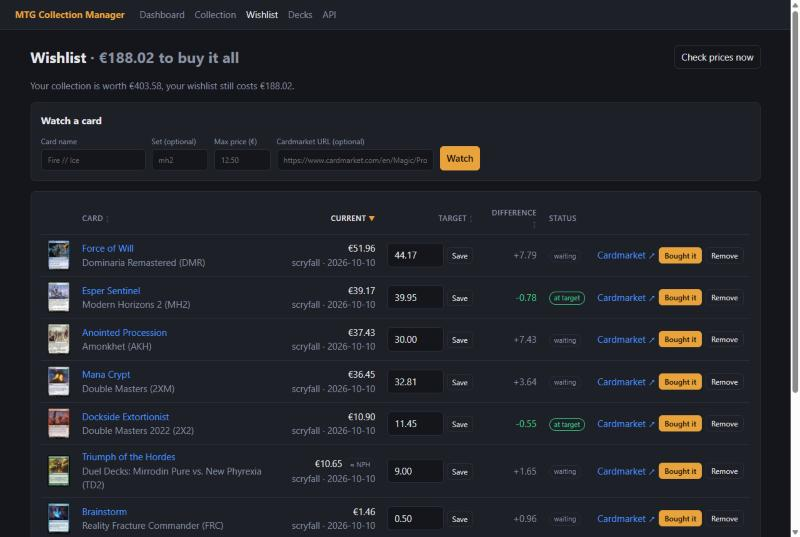
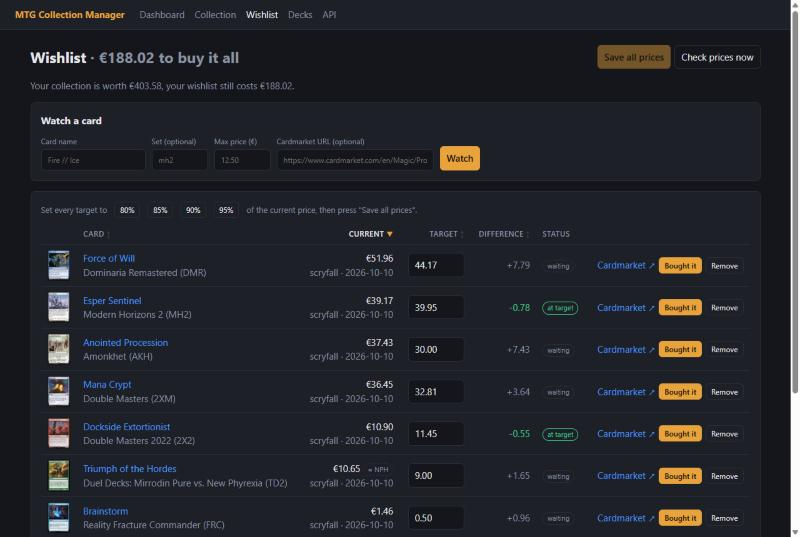
Wishlist: save all target prices at once, set them by percentage
- Target prices are edited freely and stored with one "Save all prices"
  button instead of a Save button per row. Changed prices are
  highlighted and a bar offers to save or discard. All of them are
  stored or, when one is invalid, none (PUT /api/wishlist/targets).
- Buttons fill every target with 80, 85, 90 or 95% of the card's current
  price; nothing is stored until the save button is pressed.

Update the wishlist screenshots in the README.

diff --git a/app/templates/wishlist.html b/app/templates/wishlist.html
@@ -4,7 +4,12 @@
 {% block content %}
 <div class="toolbar">
   <h1>Wishlist <span class="muted">· {{ total | eur }} to buy it all</span></h1>
-  <form method="post" action="/jobs/check-wishlist"><button class="secondary">Check prices now</button></form>
+  <div class="actions">
+    {# Every target price field belongs to this one form, so a single button saves them all. #}
+    <form id="wishlist-form" class="inline" method="post" action="/wishlist/targets" data-keep-scroll></form>
+    <button form="wishlist-form" class="wishlist-save">Save all prices</button>
+    <form class="inline" method="post" action="/jobs/check-wishlist"><button class="secondary">Check prices now</button></form>
+  </div>
 </div>
 
 <p class="muted">Your collection is worth {{ collection_value | eur }}, your wishlist still costs {{ total | eur }}.</p>
@@ -22,6 +27,13 @@
 
 <div class="panel table-wrap">
   {% if rows %}
+  <div class="toolbar search-bar bulk-targets">
+    <span class="muted">Set every target to</span>
+    {% for pct in (80, 85, 90, 95) %}
+    <button type="button" class="secondary small" data-target-pct="{{ pct }}" title="Fill in {{ pct }}% of each card's current price as its target">{{ pct }}%</button>
+    {% endfor %}
+    <span class="muted">of the current price, then press "Save all prices".</span>
+  </div>
   <table id="wishlist-table">
     <thead>
     <tr>
@@ -47,10 +59,8 @@
         {% if row.price_source %}<div class="muted">{{ row.price_source }} · {{ row.price_date }}</div>{% endif %}
       </td>
       <td class="num">
-        <form class="inline" method="post" action="/wishlist/{{ row.entry.id }}/target">
-          <input name="target_price" class="narrow" value="{{ '%.2f' | format(row.entry.target_price) }}" inputmode="decimal">
-          <button class="secondary small">Save</button>
-        </form>
+        <input name="target:{{ row.entry.id }}" form="wishlist-form" class="narrow" inputmode="decimal"
+               value="{{ '%.2f' | format(row.entry.target_price) }}" aria-label="Target price for {{ row.card.name }}">
       </td>
       <td class="num {{ 'up' if row.below_target else 'muted' }}">
         {% if row.difference is not none %}{{ '%+.2f' | format(row.difference) }}{% else %}–{% endif %}
@@ -101,6 +111,48 @@
 {% endblock %}
 
 {% block scripts %}
+<div id="unsaved-bar" class="unsaved-bar" hidden>
+  <span id="unsaved-text">You have unsaved target prices.</span>
+  <a href="/wishlist">Discard</a>
+  <button form="wishlist-form">Save all prices</button>
+</div>
+<script>
+  // One save for every target price: the button lights up as soon as a price differs from what is stored.
+  const targetFields = [...document.querySelectorAll('input[form="wishlist-form"]')];
+  const targetButtons = document.querySelectorAll('button[form="wishlist-form"]');
+  const targetBar = document.getElementById("unsaved-bar");
+
+  function markTargets() {
+    let changed = 0;
+    for (const field of targetFields) {
+      // defaultValue is what the server sent; "12,5" and "12.50" are the same price.
+      const typed = Number(field.value.trim().replace(",", "."));
+      const dirty = field.value.trim() === "" || Number.isNaN(typed) || typed !== Number(field.defaultValue);
+      field.classList.toggle("changed", dirty);
+      if (dirty) changed += 1;
+    }
+    for (const button of targetButtons) button.disabled = changed === 0;
+    targetBar.hidden = changed === 0;
+    document.getElementById("unsaved-text").textContent =
+      changed === 1 ? "1 target price is not saved yet." : `${changed} target prices are not saved yet.`;
+  }
+
+  for (const field of targetFields) field.addEventListener("input", markTargets);
+  markTargets();
+
+  // "80%" etc.: fill in that share of the current price for every card. Nothing is saved until you press save.
+  for (const button of document.querySelectorAll("button[data-target-pct]")) {
+    button.addEventListener("click", () => {
+      const share = Number(button.dataset.targetPct) / 100;
+      for (const field of targetFields) {
+        const current = field.closest("tr").dataset.current;
+        if (current === "") continue;  // no price known: leave the target as it is
+        field.value = (Math.round(Number(current) * share * 100) / 100).toFixed(2);
+      }
+      markTargets();
+    });
+  }
+</script>
 <script>
   // Click a column header to sort; click again to reverse. The choice is remembered in this browser.
   const wishlistTable = document.getElementById("wishlist-table");

diff --git a/app/static/style.css b/app/static/style.css
@@ -165,3 +165,5 @@ th[aria-sort] button.sort { color: var(--text); }
 /* Keep prices, badges and row buttons on one line; long card and set names wrap instead. */
 td.num, .badge { white-space: nowrap; }
 .actions { flex-wrap: nowrap; white-space: nowrap; align-items: center; }
+
+.bulk-targets { margin-bottom: 8px; font-size: 13px; }

diff --git a/tests/test_api.py b/tests/test_api.py
@@ -213,3 +213,39 @@ def test_wishlist_table_is_sortable(client):
     assert 'data-name="Lim-Dûl&#39;s Vault" data-current="12.34"' in page
     assert 'data-target="10.0" data-difference="2.34"' in page
     assert 'data-name="Black Lotus" data-current=""' in page  # sorts last, whatever the direction
+
+
+def test_save_all_target_prices_at_once(client):
+    vault = client.post("/api/wishlist", json={"name": "Lim-Dûl's Vault", "target_price": 10}).json()
+    sol = client.post("/api/wishlist", json={"name": "Sol Ring", "target_price": 1}).json()
+    fire = client.post("/api/wishlist", json={"name": "Fire // Ice", "target_price": 0.2}).json()
+
+    page = client.get("/wishlist").text
+    assert 'id="wishlist-form"' in page and "Save all prices" in page
+    assert f'name="target:{vault["id"]}" form="wishlist-form"' in page
+    assert page.count(">Save</button>") == 0  # no more saving row by row
+    for pct in (80, 85, 90, 95):  # fill every target with a share of the current price
+        assert f'data-target-pct="{pct}"' in page
+
+    def targets():
+        return {i["card"]["name"]: i["target_price"] for i in client.get("/api/wishlist").json()["items"]}
+
+    # Three fields are submitted, two of them changed (one with a comma).
+    saved = client.post("/wishlist/targets", data={
+        f"target:{vault['id']}": "8,50", f"target:{sol['id']}": "1.00", f"target:{fire['id']}": "0.10",
+    })
+    assert "Saved 2 target prices" in saved.text
+    assert targets() == {"Lim-Dûl's Vault": 8.5, "Sol Ring": 1.0, "Fire // Ice": 0.1}
+    assert "No target prices were changed" in client.post("/wishlist/targets", data={f"target:{sol['id']}": "1"}).text
+    assert "Saved 1 target price<" in client.post("/wishlist/targets", data={f"target:{sol['id']}": "2"}).text
+
+    # One bad value and nothing is stored, not even the valid ones next to it.
+    failed = client.post("/wishlist/targets", data={f"target:{vault['id']}": "5", f"target:{sol['id']}": "cheap"})
+    assert "Nothing was saved" in failed.text
+    assert "Nothing was saved" in client.post("/wishlist/targets", data={f"target:{vault['id']}": "5", "target:9999": "1"}).text
+    assert targets() == {"Lim-Dûl's Vault": 8.5, "Sol Ring": 2.0, "Fire // Ice": 0.1}
+
+    api = client.put("/api/wishlist/targets", json={str(vault["id"]): 7, str(fire["id"]): 0.3})
+    assert api.status_code == 200 and targets() == {"Lim-Dûl's Vault": 7.0, "Sol Ring": 2.0, "Fire // Ice": 0.3}
+    assert client.put("/api/wishlist/targets", json={str(vault["id"]): -1}).status_code == 400
+    assert client.put("/api/wishlist/targets", json={"9999": 1}).status_code == 400

diff --git a/app/routers/pages.py b/app/routers/pages.py
@@ -200,6 +200,28 @@ def _active_entry(session: Session, entry_id: int) -> WishlistEntry | None:
     return entry if entry is not None and entry.active else None
 
 
+@router.post("/wishlist/targets")
+async def wishlist_targets(request: Request, session: Session = Depends(get_session)):
+    """The "Save all prices" button: every target price on the page in one go."""
+    targets: dict[int, float] = {}
+    for key, value in (await request.form()).items():
+        if not key.startswith("target:"):
+            continue
+        price = parse_money(str(value))
+        if price is None or not key.removeprefix("target:").isdigit():
+            return redirect("/wishlist", f"Nothing was saved: '{value}' is not a valid price", error=True)
+        targets[int(key.removeprefix("target:"))] = price
+    try:
+        changed = wishlist.set_targets(session, targets)
+    except ValueError as exc:
+        session.rollback()
+        return redirect("/wishlist", f"Nothing was saved: {exc}", error=True)
+    session.commit()
+    if not changed:
+        return redirect("/wishlist", "No target prices were changed")
+    return redirect("/wishlist", f"Saved {changed} target price{'s' if changed != 1 else ''}")
+
+
 @router.post("/wishlist/{entry_id}/target")
 def wishlist_target(entry_id: int, target_price: str = Form(...), session: Session = Depends(get_session)):
     entry, target = _active_entry(session, entry_id), parse_money(target_price)

diff --git a/app/services/wishlist.py b/app/services/wishlist.py
@@ -103,6 +103,30 @@ async def add_wish_by_name(
     return add_to_wishlist(session, card, target_price, cardmarket_url or data.cardmarket_url)
 
 
+def set_targets(session: Session, targets: dict[int, float]) -> int:
+    """Set the target price of several wishlist entries at once; returns how many actually changed.
+
+    Raises ValueError (and changes nothing) when an entry is unknown or a price is negative.
+    """
+    entries = {}
+    for entry_id, price in targets.items():
+        entry = session.get(WishlistEntry, entry_id)
+        if entry is None or not entry.active:
+            raise ValueError("One of those cards is no longer on your wishlist")
+        if price < 0:
+            raise ValueError("A target price cannot be negative")
+        entries[entry_id] = entry
+    changed = 0
+    for entry_id, entry in entries.items():
+        price = round(targets[entry_id], 2)
+        if entry.target_price != price:
+            entry.target_price = price
+            session.add(entry)
+            changed += 1
+    session.flush()
+    return changed
+
+
 def purchase(session: Session, entry: WishlistEntry, quantity: int = 1, is_foil: bool = False) -> CollectionEntry:
     """WANT -> HAVE: move a bought card into the collection and stop watching it."""
     card = session.get(Card, entry.card_id)

diff --git a/app/routers/api.py b/app/routers/api.py
@@ -155,6 +155,19 @@ async def add_to_wishlist(
     return WishlistItemOut.from_row(wishlist.wishlist_rows(session, entry.id)[0])
 
 
+@router.put("/wishlist/targets", response_model=WishlistOut)
+def set_wishlist_targets(targets: dict[int, float], session: Session = Depends(get_session)):
+    """Set several target prices at once: {wishlist entry id: price}. All of them or, on an error, none."""
+    try:
+        wishlist.set_targets(session, targets)
+    except ValueError as exc:
+        session.rollback()
+        raise HTTPException(status_code=400, detail=str(exc)) from exc
+    session.commit()
+    rows = wishlist.wishlist_rows(session)
+    return WishlistOut(total_cost=wishlist.wishlist_cost(rows), items=[WishlistItemOut.from_row(row) for row in rows])
+
+
 def _wishlist_entry(session: Session, entry_id: int) -> WishlistEntry:
     entry = session.get(WishlistEntry, entry_id)
     if entry is None or not entry.active:

diff --git a/README.md b/README.md
@@ -19,6 +19,8 @@ price.
 | --- | --- |
 | ![Collection](docs/collection.jpg) | ![Saved decks with bracket, progress and value, and a random deck for each of three players](docs/decks.jpg) |
 
+![Wishlist targets set to 85% of the current price: the changed prices are highlighted until you save them all](docs/wishlist-targets.jpg)
+
 ![Searching the collection: four versions of Sol Ring, told apart by set and card number](docs/collection-search.jpg)
 
 ![Printings without a price of their own borrow one from another printing, marked ≈ SET (Dragon Egg and Fellwar Stone)](docs/collection-borrowed.jpg)
@@ -55,6 +57,7 @@ price.
 - Periodic price check against Cardmarket, with Scryfall as a fallback
 - Discord webhook alert when a price is at or below your target, at most once per card per 24 hours
 - Sort the wishlist by card name, current price, target price or difference, in either direction
+- Edit target prices freely and store them with one "Save all prices" button; set every target to 80, 85, 90 or 95% of the current price in one click
 - Alert history
 
 **Both**
@@ -136,6 +139,7 @@ product page. Two things to know:
 | `PATCH` / `DELETE` | `/api/collection/{id}` | Change the quantity of an entry / remove it |
 | `GET` / `POST` | `/api/wishlist` | List the wishlist / watch a card with a max price |
 | `POST` | `/api/wishlist/{id}/purchase` | Move a card from WANT to HAVE |
+| `PUT` | `/api/wishlist/targets` | Set several target prices at once |
 | `DELETE` | `/api/wishlist/{id}` | Stop watching a card |
 | `GET` | `/api/alerts` | Alert history |
 | `GET` | `/api/cards/{id}/prices` | Price history of one card |
